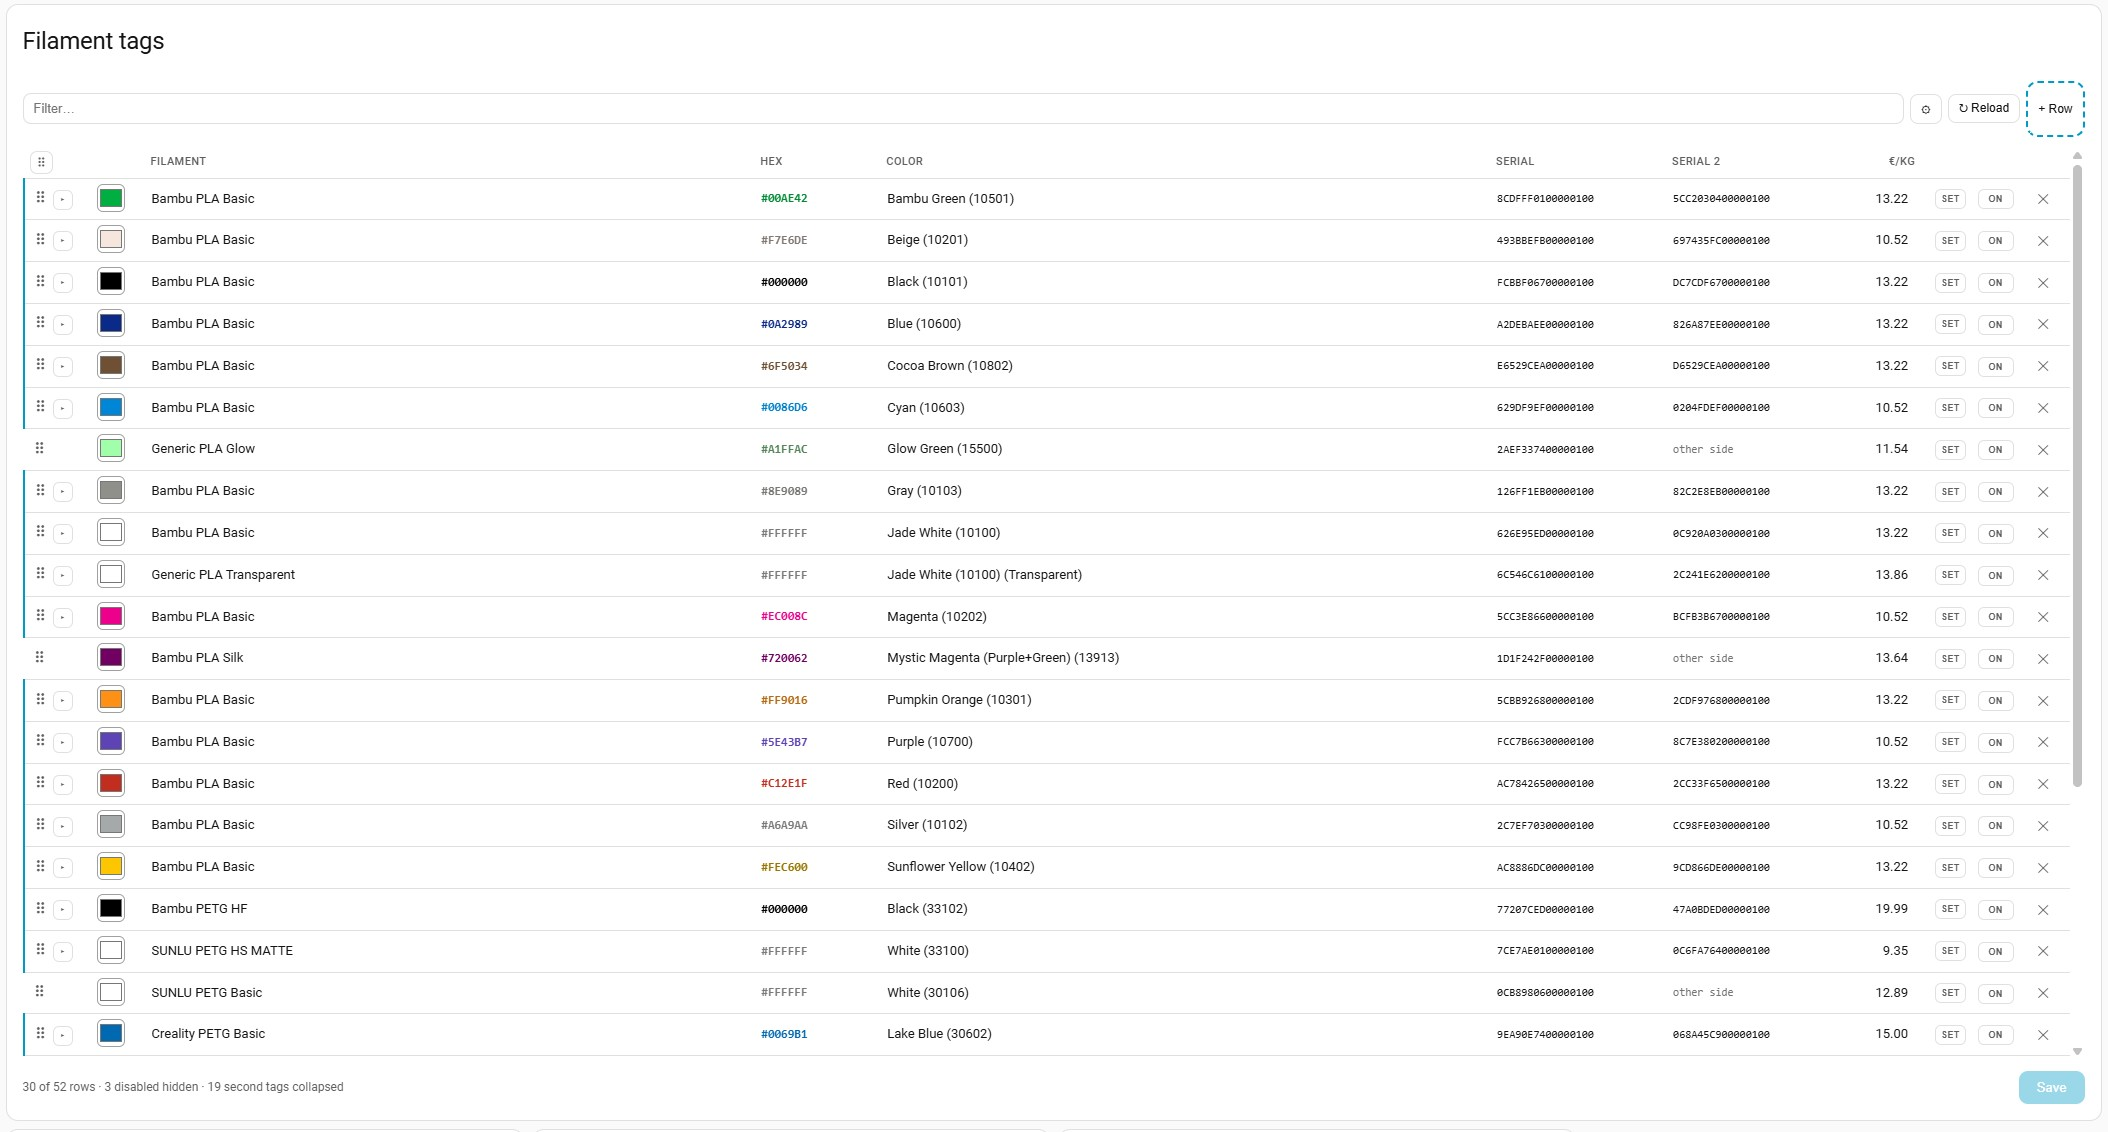
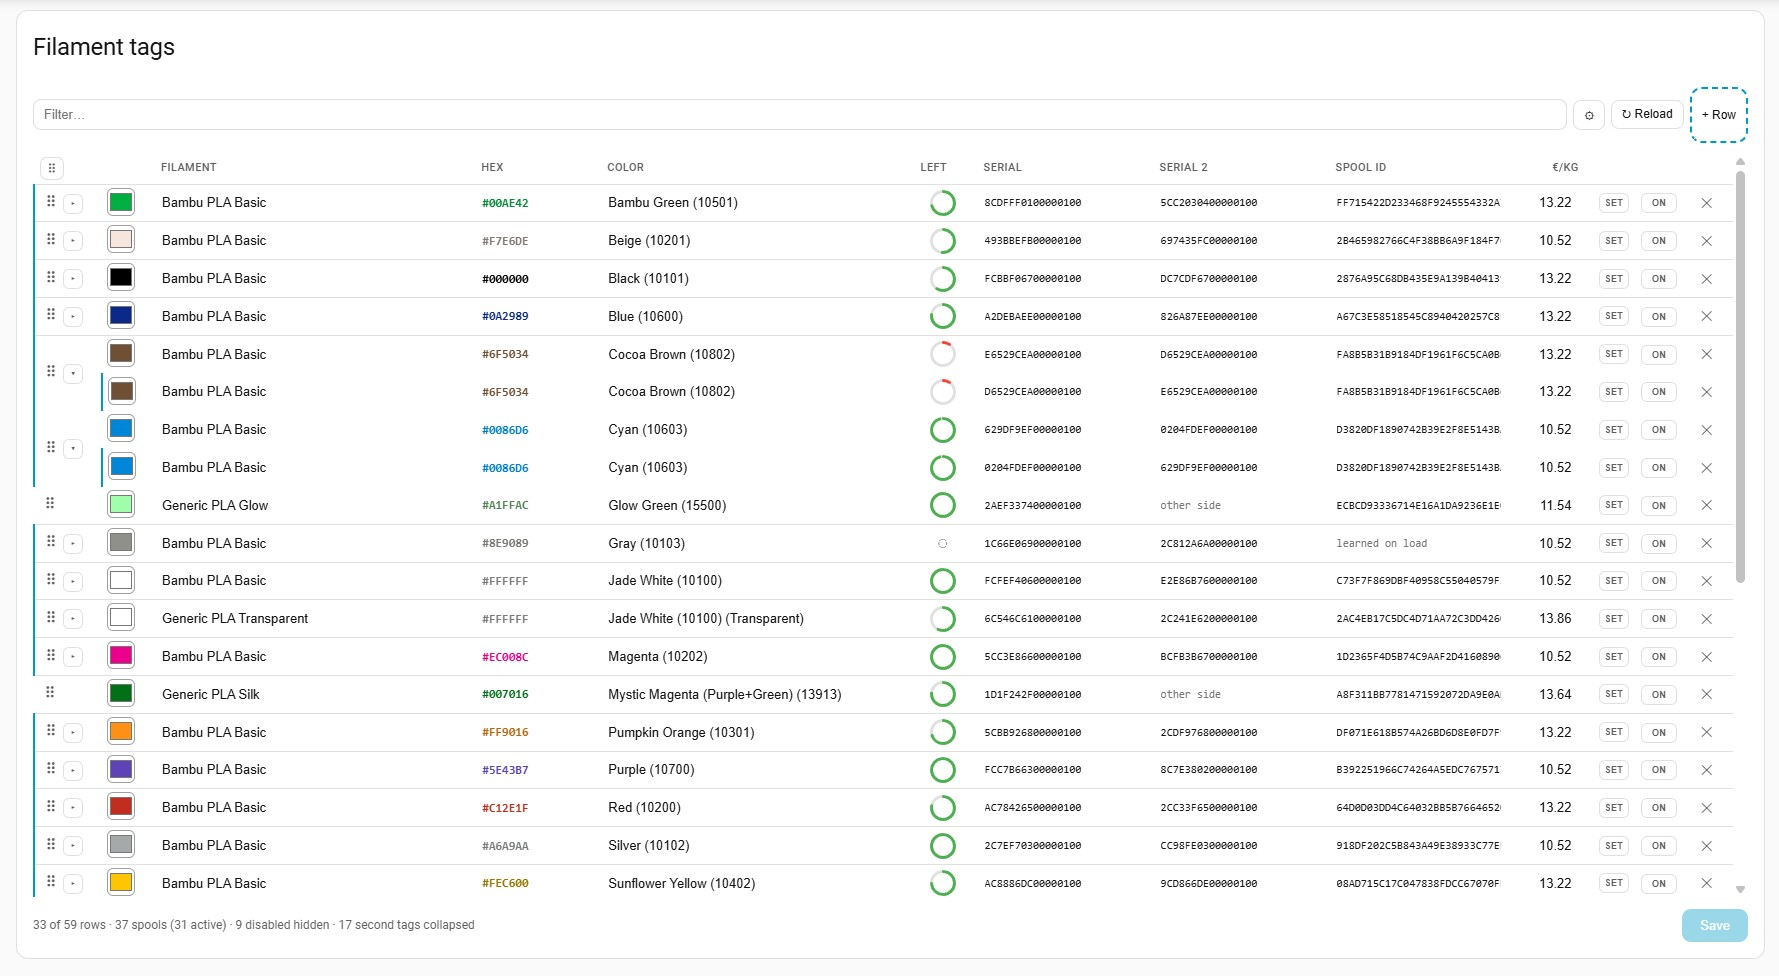
Refresh the tags-editor screenshot with the ring and spool-id columns

diff --git a/docs/cards.md b/docs/cards.md
@@ -11,7 +11,7 @@ startup for you to add by hand.
 
 `custom:bambu-costs-tags-editor` — editable, reorderable filament tag library.
 
-![The filament tag library: colour swatches, names with Bambu codes, both RFID serials and the price per spool](images/filaments_full_table.jpg)
+![The filament tag library: swatches, palette names, the remaining ring, both RFID serials, the learned spool ids and the price per spool](images/filaments_full_table.jpg)
 
 - A spool's two tags render as one row, the second tag a child row behind a **▸** on the
   spool's handle — collapsed by default, with the default changeable in settings.
